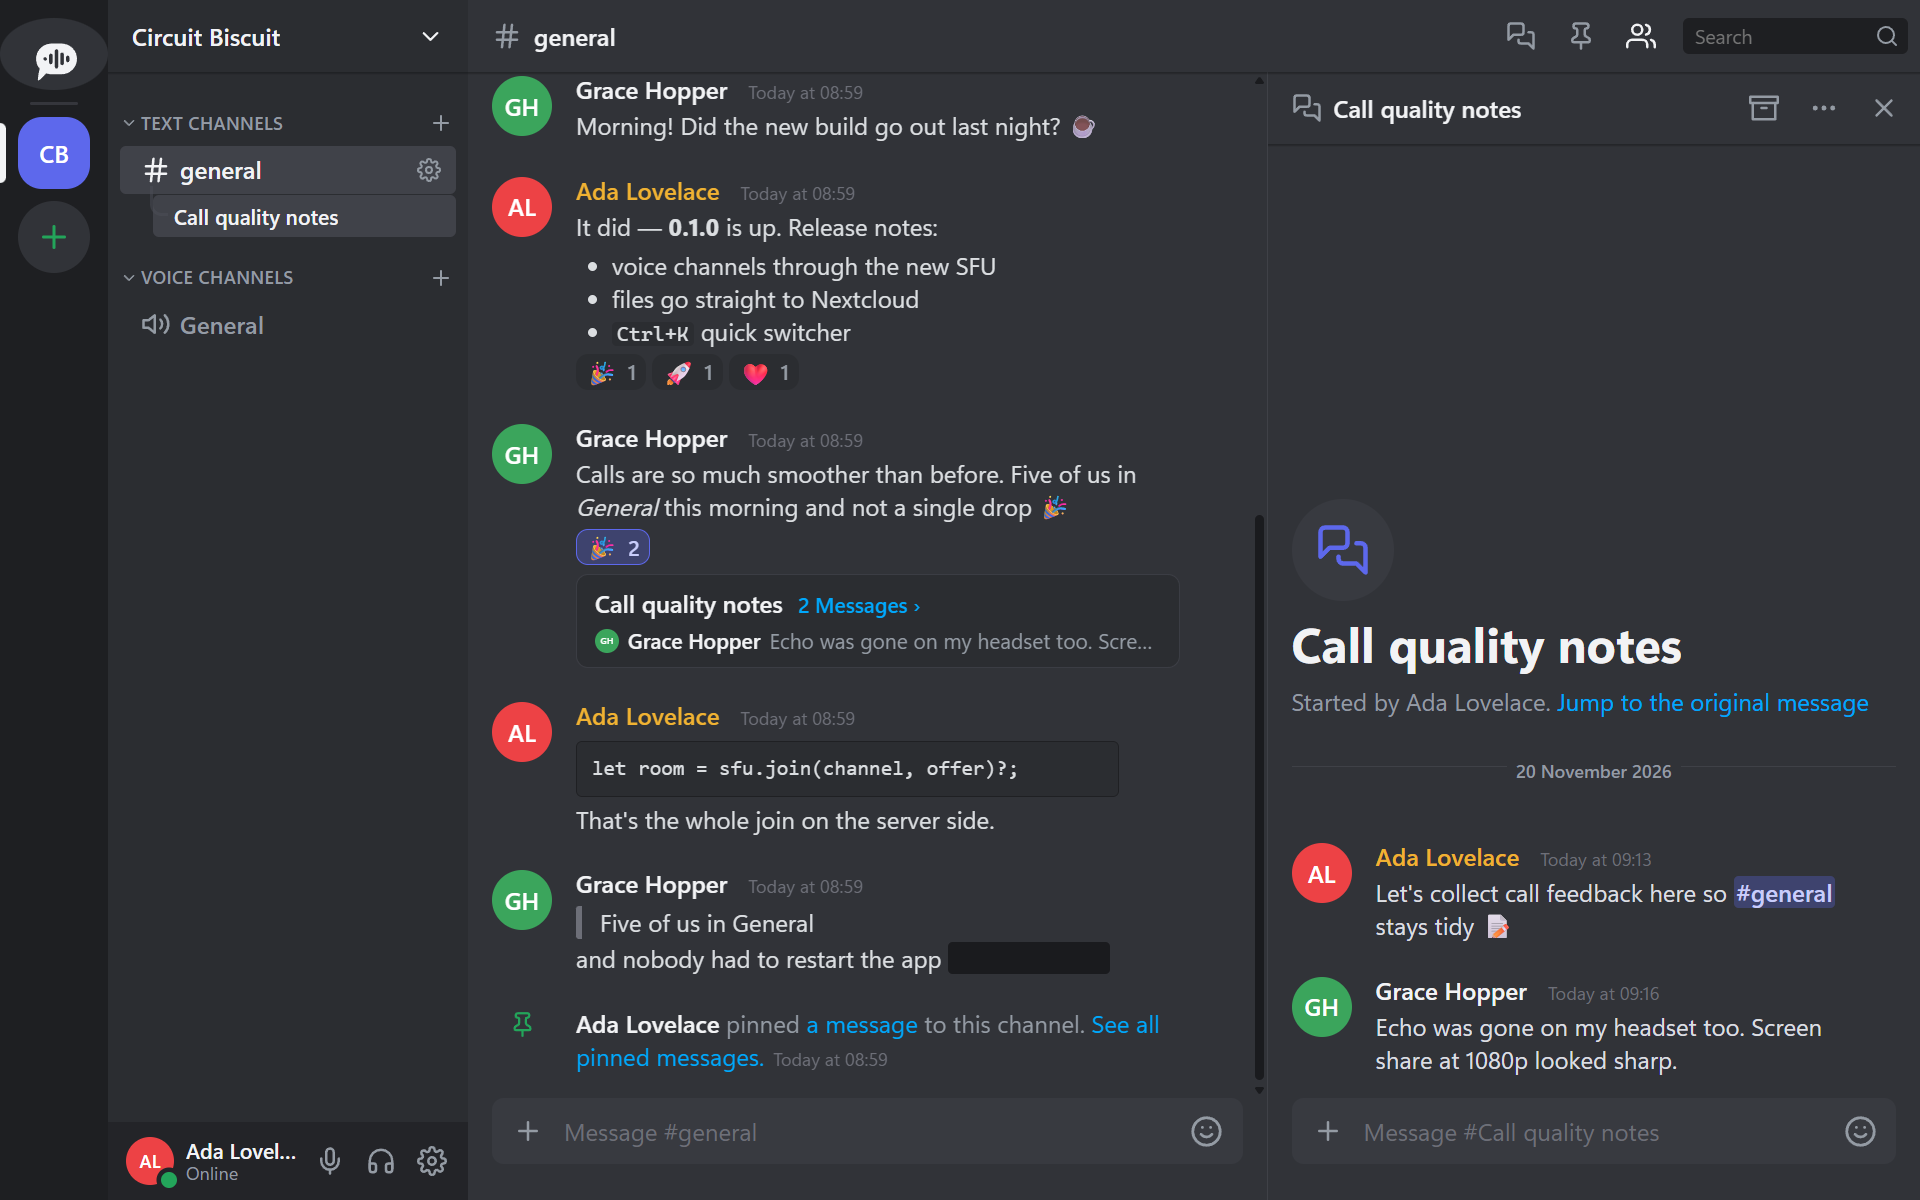
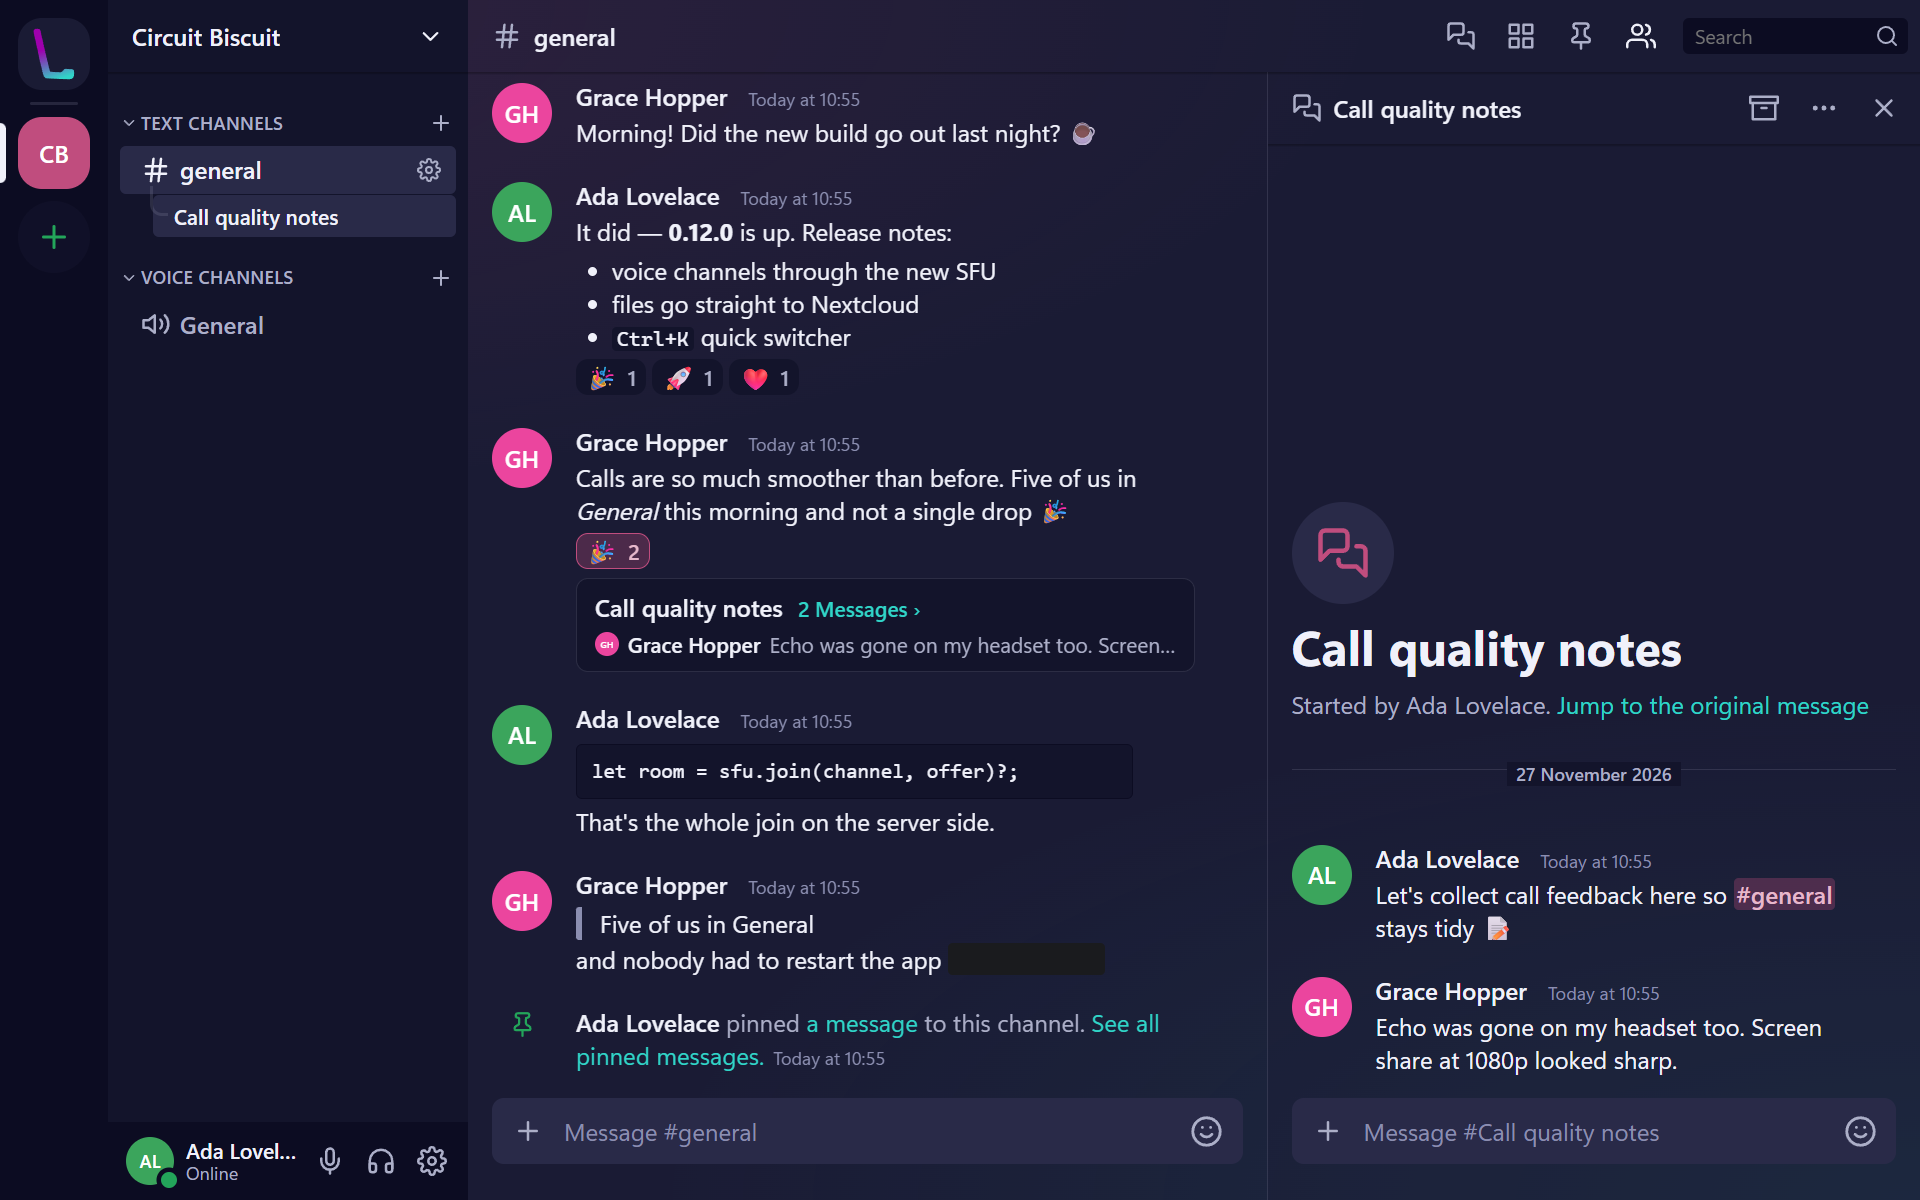
README: new chat screenshot in the Laklak look
The new logo and the Splash theme; same scene as before. Alt text now
matches what's in the picture.

diff --git a/README.md b/README.md
@@ -14,7 +14,7 @@ A self-hosted chat server with apps for Windows, macOS, Linux and Android — bu
 [![Platforms](https://img.shields.io/badge/platforms-Windows%20·%20macOS%20·%20Linux%20·%20Android%20·%20Web-444)](#downloads)
 [![Status](https://img.shields.io/badge/status-alpha-orange)](#feature-status)
 
-<img src="docs/screenshot-chat.png" width="100%" alt="Laklak: space rail, channel list, a conversation with mentions, replies and reactions, and the member list">
+<img src="docs/screenshot-chat.png" width="100%" alt="Laklak: space rail, channel list, a conversation with reactions, code and a thread, and the thread panel open on the right">
 
 <sub><i>A space with text and voice channels: mentions, replies, reactions, Markdown and live presence.</i></sub>
 
